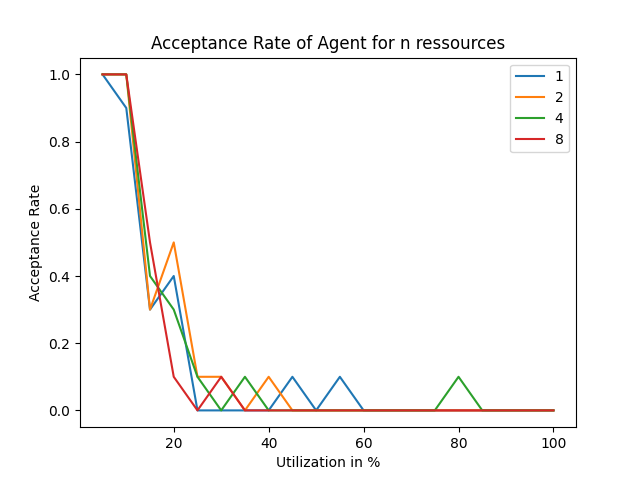
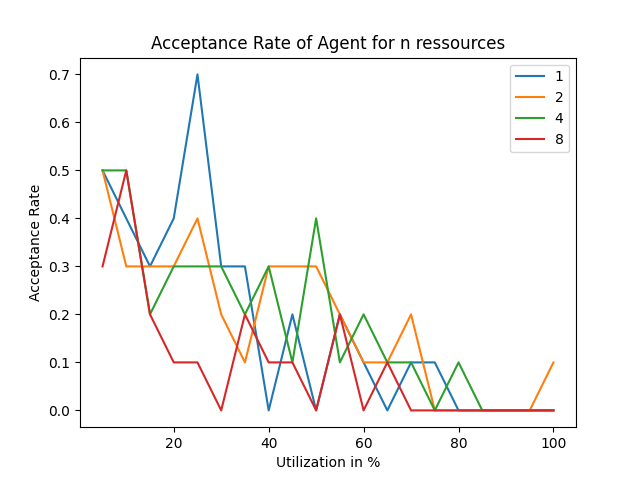
alternate resource number during training

diff --git a/evaluation.py b/evaluation.py
@@ -75,7 +75,7 @@ if __name__ == '__main__':
     subset = 1
 
     # sporadic setting 0 = Periodic, 1 = Sporadic
-    SPORADIC = 0
+    SPORADIC = 1
     mod = 1
 
     iterations = 10
@@ -173,11 +173,11 @@ if __name__ == '__main__':
                 score = 0
                 observation = env.state
                 while not done:
-                    # action = agent.choose_action_eval(observation.to_array())
+                    action = agent.choose_action_eval(observation.to_array())
                     # action = select_edf(observation)
-                    action = select_rate_monotonic(observation)
+                    # action = select_rate_monotonic(observation)
                     # print(action)
-                    state_, reward, done, info = env.step(action-1)
+                    state_, reward, done, info = env.step(action)
                     score += reward
                     observation = state_
                     # env.render()
@@ -202,5 +202,5 @@ if __name__ == '__main__':
         plt.xlabel('Utilization in %')
         plt.ylabel('Acceptance Rate')
     plt.legend(resources_no)
-    plt.savefig('eval_periodic-rm.png')
+    plt.savefig('eval_sporadic.png')
     plt.show()

diff --git a/agent.py b/agent.py
@@ -52,7 +52,7 @@ class PolicyNetwork(keras.Model):
     def __init__(self, layer_dims, n_actions, input_shape, n_tasks, m_sets, name='policy', chkpt_dir='tmp/policy'):
         super(PolicyNetwork, self).__init__()
         self.model_name = name
-        self.checkpoint_dir = f'{chkpt_dir}-{n_tasks}x{m_sets}-multiple_resources'
+        self.checkpoint_dir = f'{chkpt_dir}-{n_tasks}x{m_sets}-multiple_resources-sporadic'
         self.checkpoint_file = os.path.join(self.checkpoint_dir, name)
         self.model_input_shape = (1,) + input_shape
         print(self.model_input_shape)
@@ -103,7 +103,7 @@ class Agent:
     def choose_action(self, observation):
         state = tf.convert_to_tensor([[observation]])
         probs = self.policy_network(state)
-        print(probs)
+        # print(probs)
         action_probabilites = tfp.distributions.Categorical(probs=probs)
        
         action = action_probabilites.sample()

diff --git a/scheduler_env.py b/scheduler_env.py
@@ -18,6 +18,7 @@ class SchedulerEnv(Env):
         self.subset = scheduler.subset
         self.SPORADIC = scheduler.SPORADIC
         self.mod = scheduler.mod
+        self.res_cntr = -1
 
         self.action_shape = self.ntasks * self.msets
         self.observation_shape = tf.convert_to_tensor(scheduler.to_array()).shape
@@ -84,7 +85,9 @@ class SchedulerEnv(Env):
     def reset(self):
         # generate new taskset with same setting
         # if won:
-        self.res_num = random.choice([1,2,4,8])
+        self.res_cntr += 1
+        res = [1,2,4,8]
+        self.res_num = res[self.res_cntr % 4]
         generate_tasksets(self.ntasks, self.msets, self.processor_num, self.res_num, self.c_min, self.c_max, self.subset, self.mod)
             # print('generate new taskets ...')
         # load newly generated taskset
